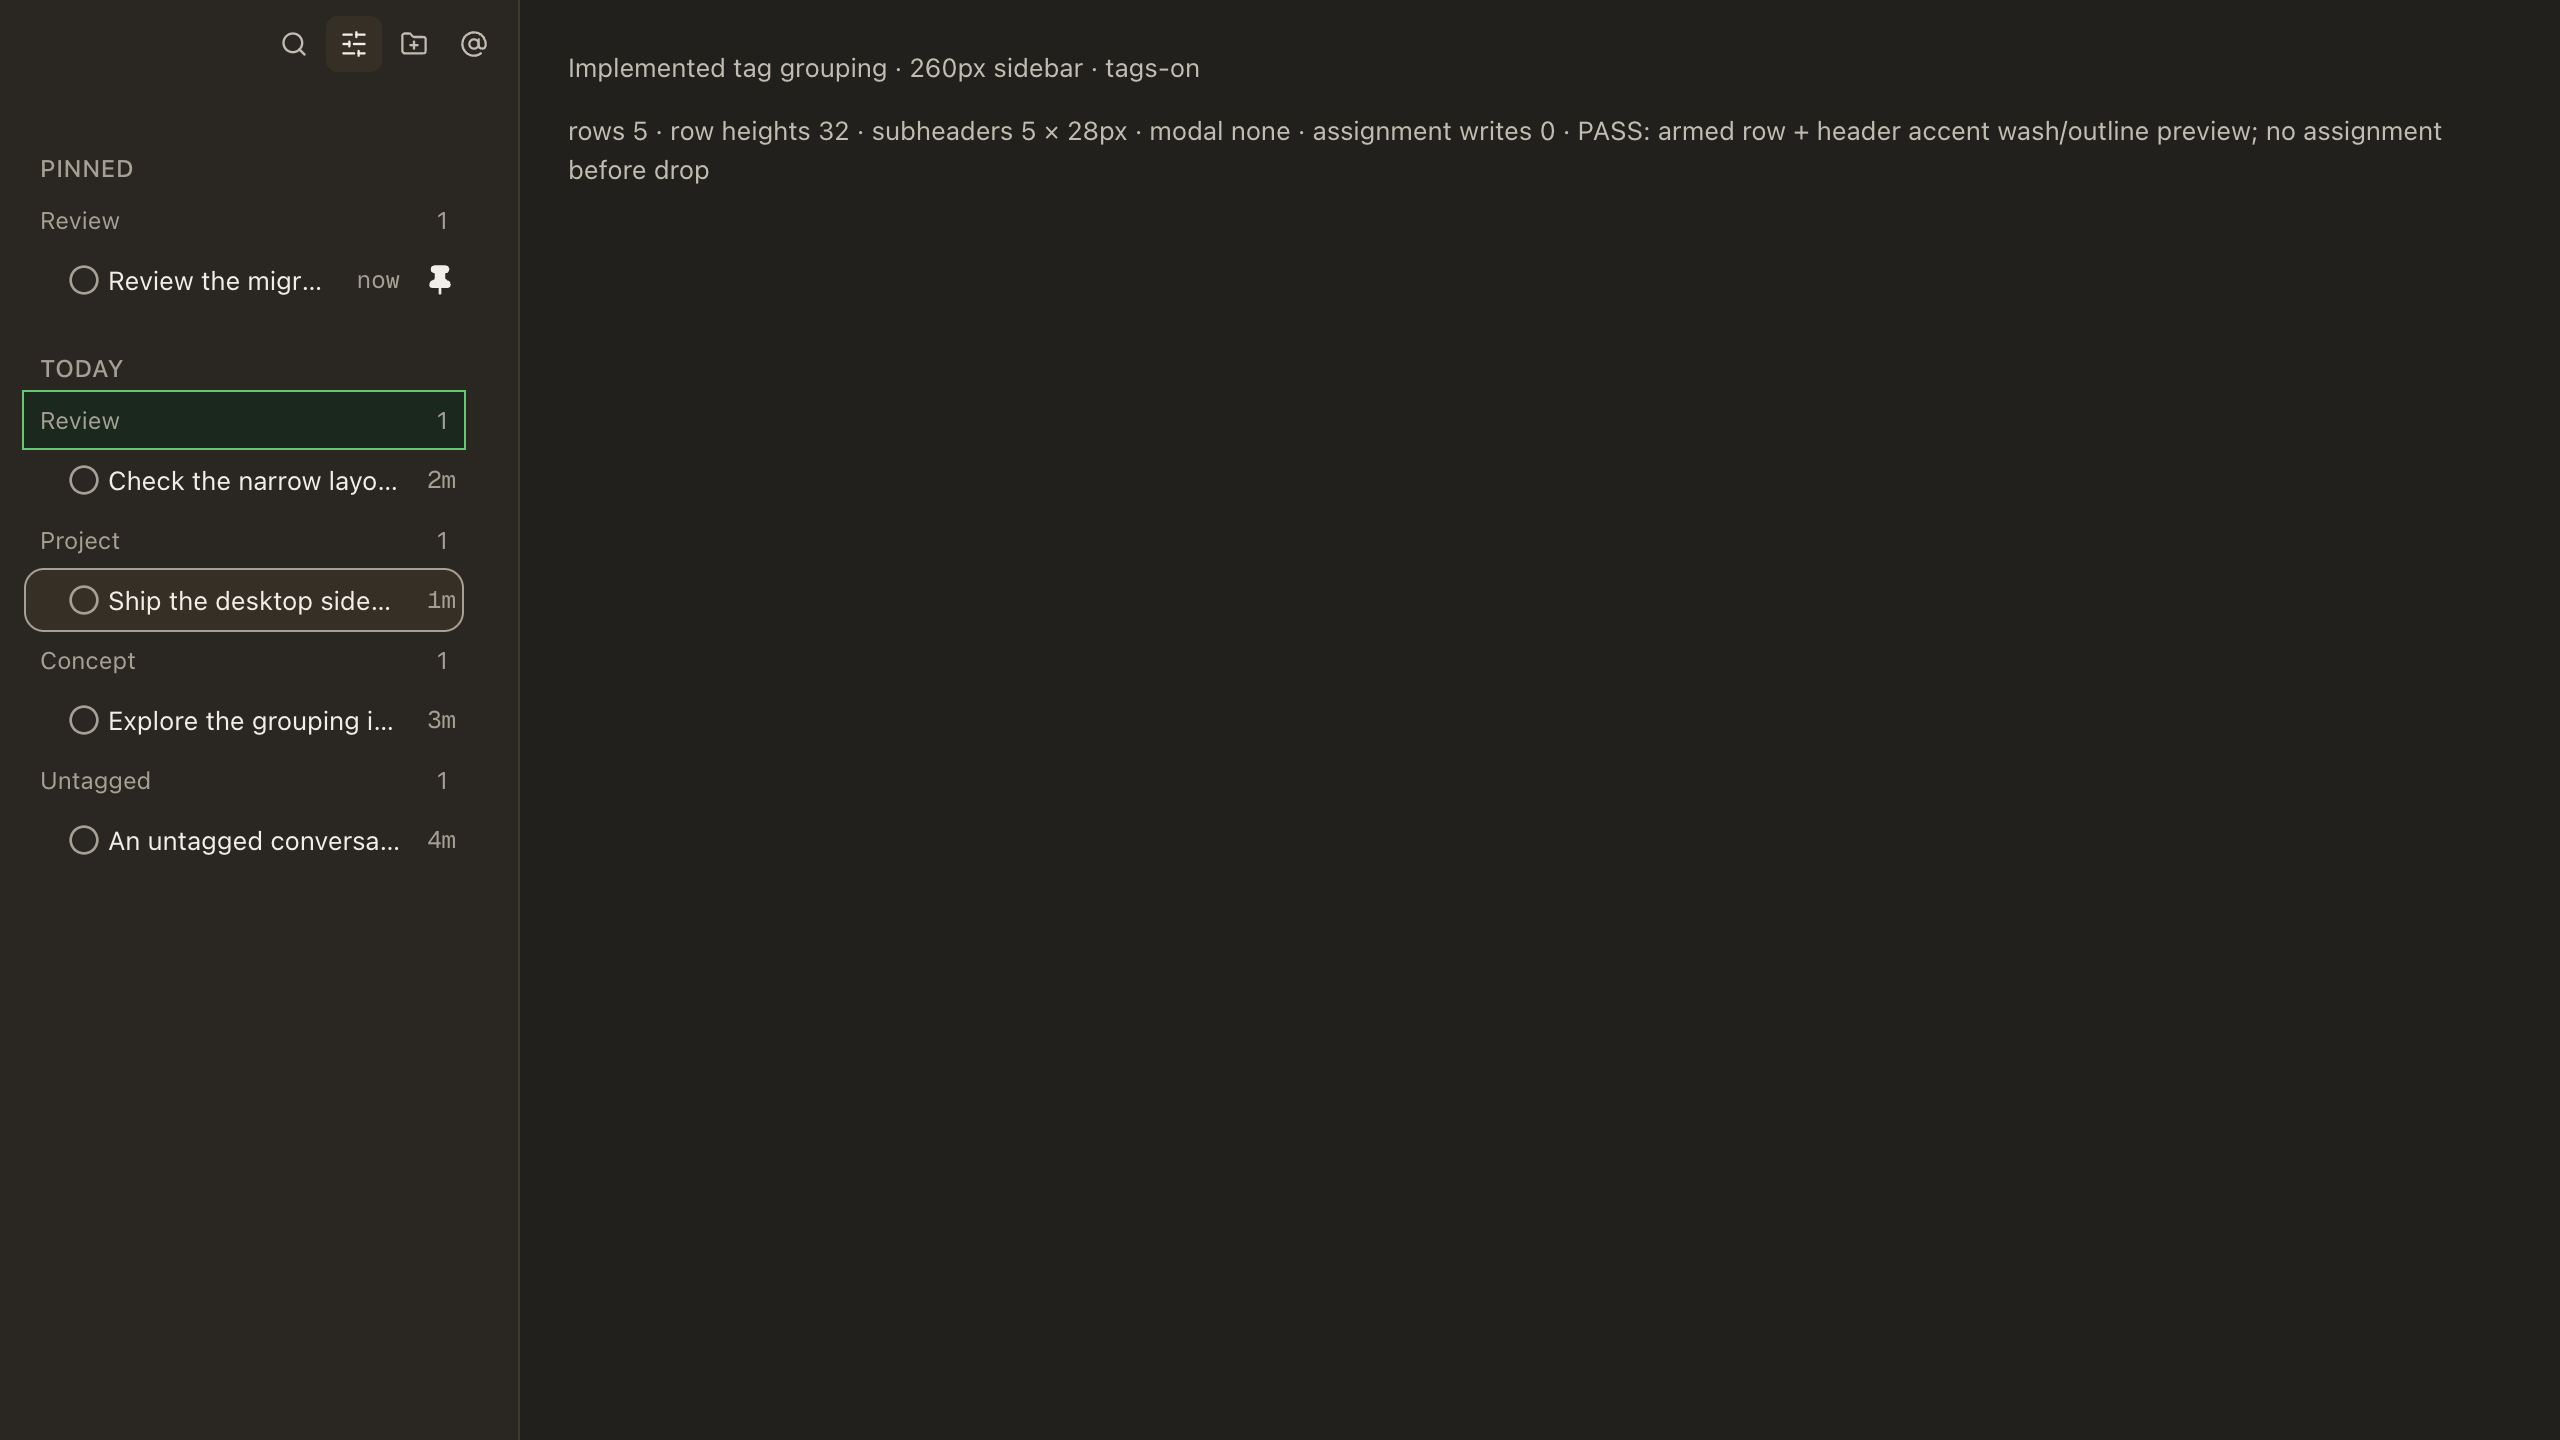
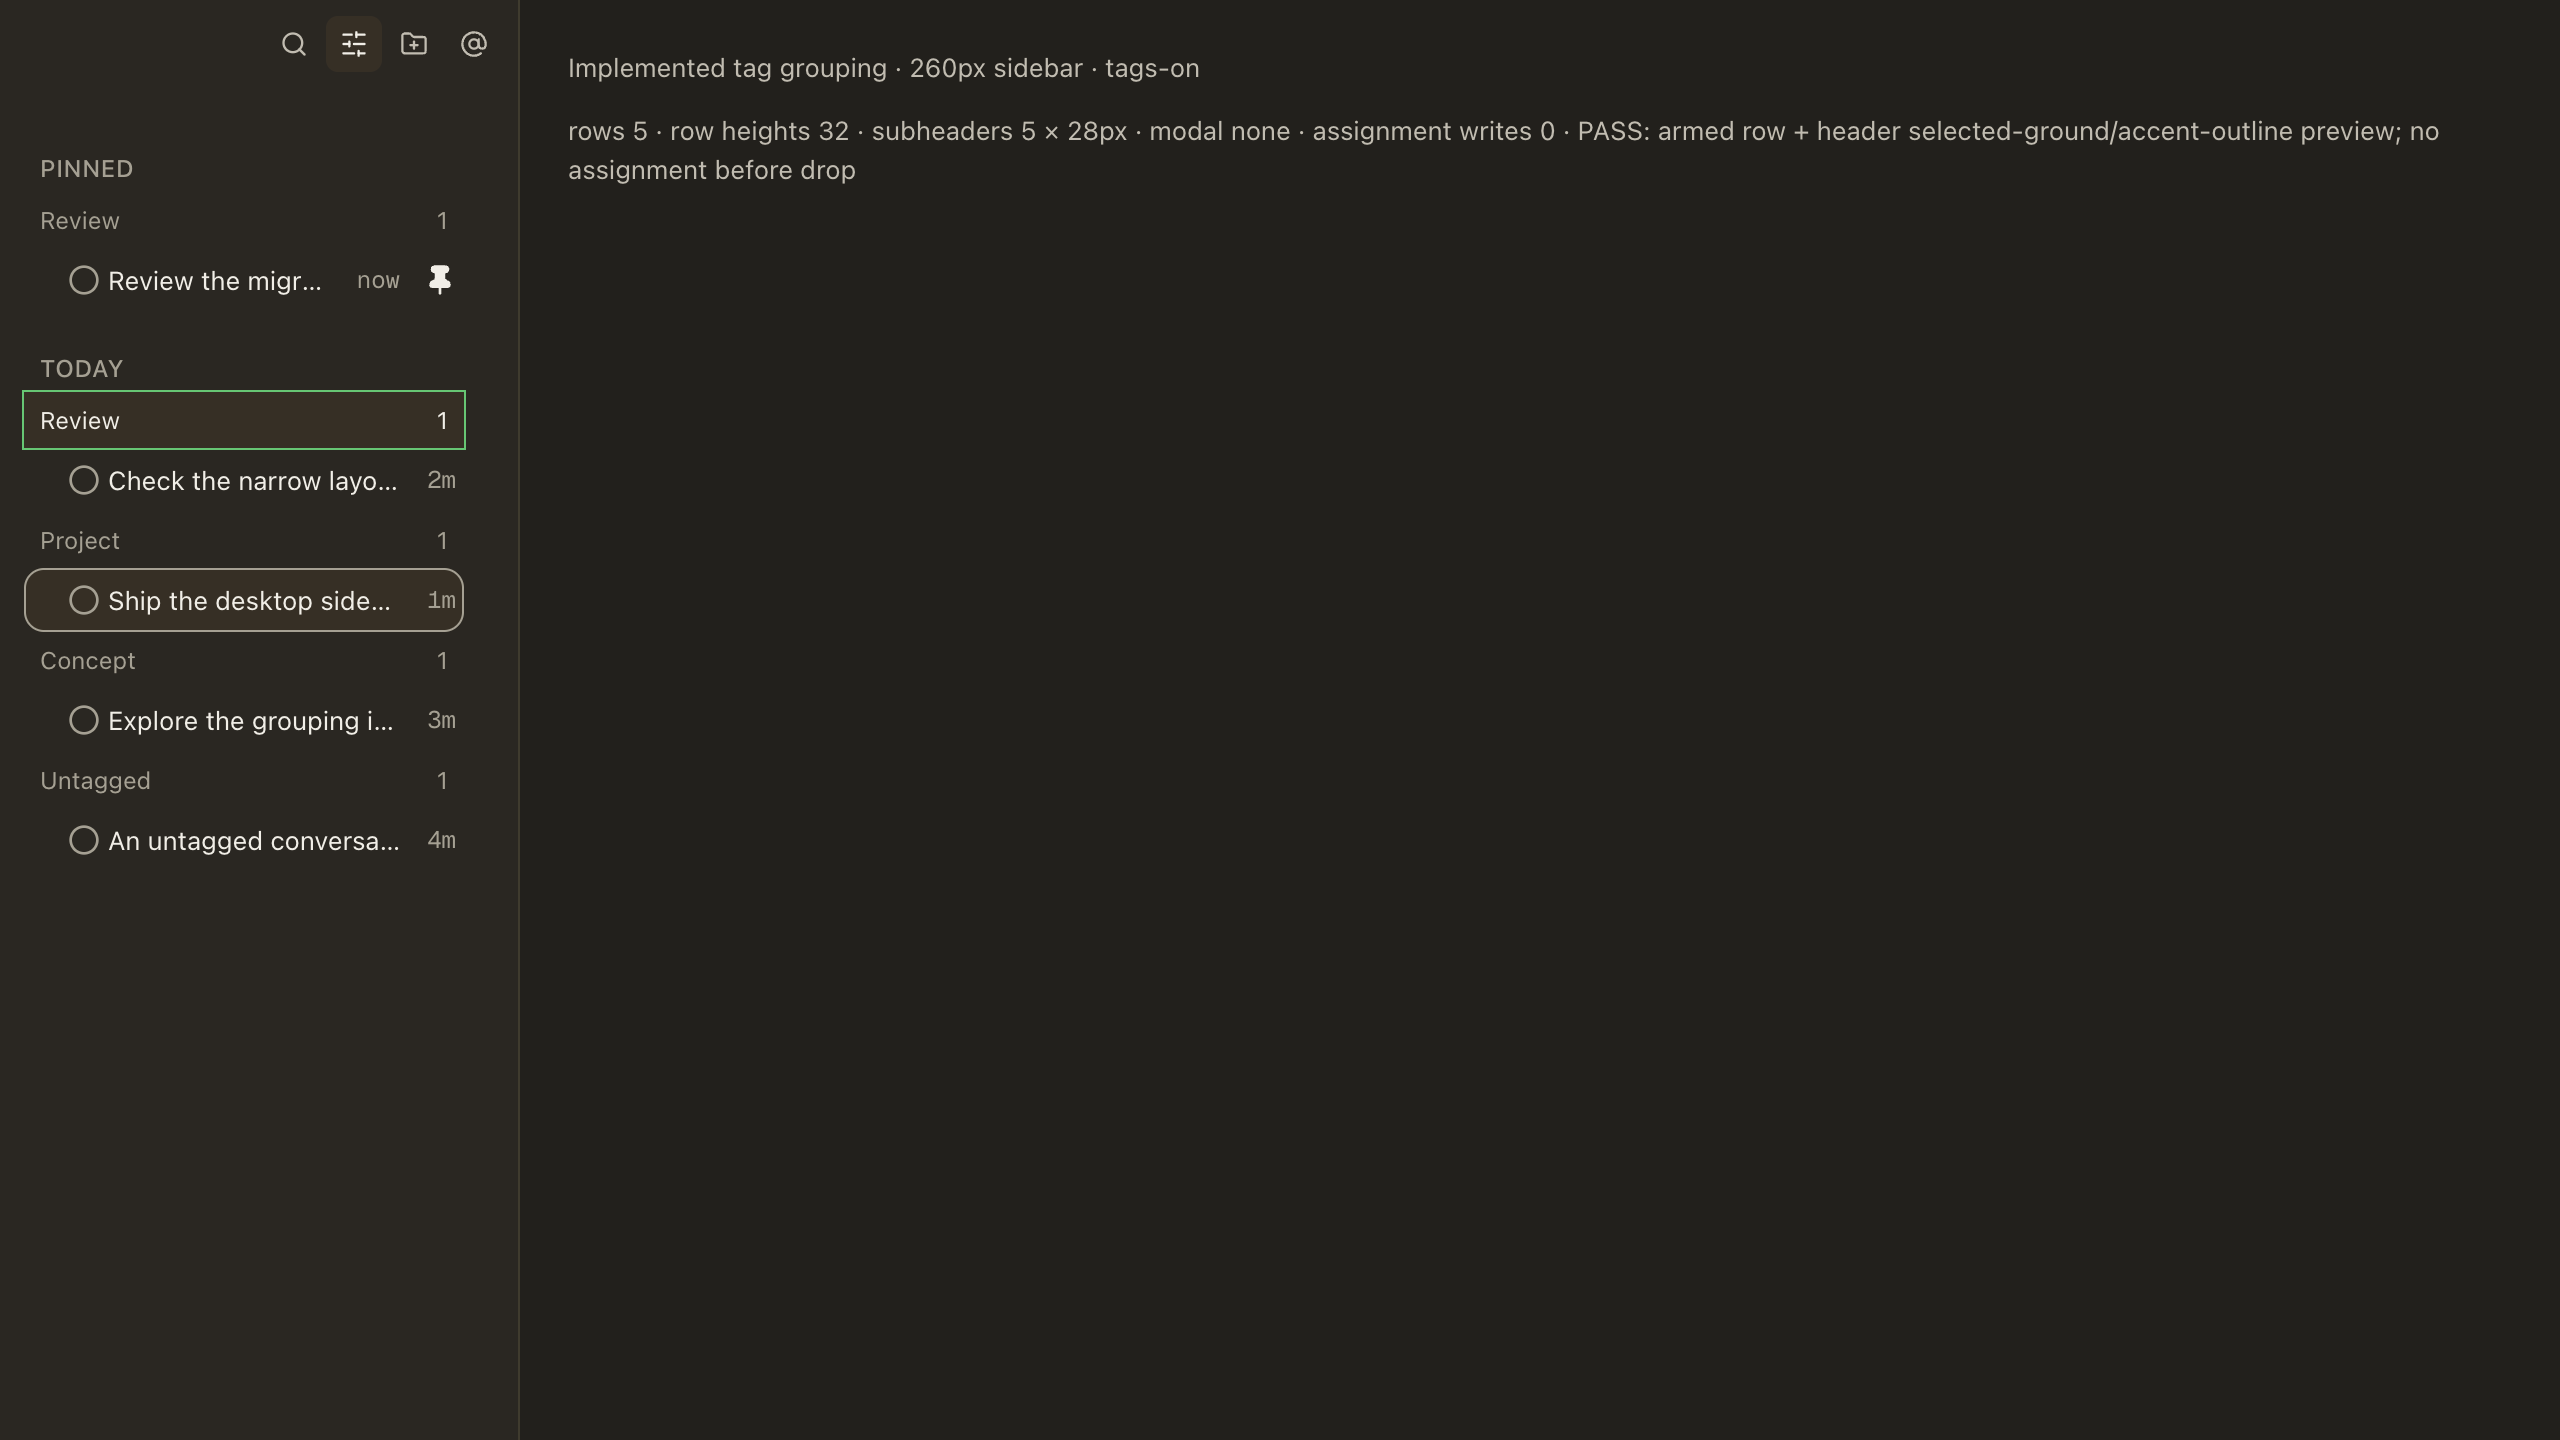
fix(chat): use compliant drop ground and isolate menu chrome

Changed region(s): [[0.0, 0.25, 0.1875, 0.3125], [0.75, 0.0625, 0.9375, 0.0938], [0.2188, 0.0938, 0.3438, 0.125]]

diff --git a/src/renderer/src/features/chat/components/chat-sidebar-tags.stories.tsx b/src/renderer/src/features/chat/components/chat-sidebar-tags.stories.tsx
@@ -930,8 +930,8 @@ const dragRoundTrip = async (crossSection: boolean) => {
 		clientX: target.left + 60,
 		clientY: target.top + 14,
 	});
-	if (crossSection) expect(header).not.toHaveClass("bg-accent-wash");
-	else await waitFor(() => expect(header).toHaveClass("bg-accent-wash"));
+	if (crossSection) expect(header).not.toHaveClass("bg-row-selected");
+	else await waitFor(() => expect(header).toHaveClass("bg-row-selected"));
 	fireEvent.pointerUp(window, {
 		...pointer,
 		clientX: target.left + 60,
@@ -1077,9 +1077,9 @@ export const DragPreview: Story = {
 			clientX: target.left + 60,
 			clientY: target.top + 14,
 		});
-		await waitFor(() => expect(header).toHaveClass("bg-accent-wash"));
+		await waitFor(() => expect(header).toHaveClass("bg-row-selected"));
 		document.body.dataset.tagsProof =
-			"PASS: armed row + header accent wash/outline preview; no assignment before drop";
+			"PASS: armed row + header selected-ground/accent-outline preview; no assignment before drop";
 	},
 };
 export const TagActionsMenu: Story = {
@@ -1276,7 +1276,7 @@ export const HeldPinnedTagDrop: Story = {
 			clientY: rect.top + 14,
 		};
 		fireEvent.pointerMove(window, over);
-		await waitFor(() => expect(target).toHaveClass("bg-accent-wash"));
+		await waitFor(() => expect(target).toHaveClass("bg-row-selected"));
 		expect(document.querySelector("[data-session-pin-indicator]")).toBeNull();
 		fireEvent.pointerUp(window, over);
 		await waitFor(() =>
@@ -1321,7 +1321,7 @@ export const PinnedHeaderPreview: Story = {
 			clientX: rect.left + 60,
 			clientY: rect.top + 14,
 		});
-		await waitFor(() => expect(target).toHaveClass("bg-accent-wash"));
+		await waitFor(() => expect(target).toHaveClass("bg-row-selected"));
 		expect(document.querySelector("[data-session-pin-indicator]")).toBeNull();
 		document.body.dataset.tagsProof =
 			"PASS: same-section Pinned header accent preview, armed row, no pinned insertion line, no write before release";
@@ -1359,7 +1359,7 @@ export const SameSectionUntaggedDrop: Story = {
 			clientY: rect.top + 14,
 		};
 		fireEvent.pointerMove(window, over);
-		await waitFor(() => expect(target).toHaveClass("bg-accent-wash"));
+		await waitFor(() => expect(target).toHaveClass("bg-row-selected"));
 		fireEvent.pointerUp(window, over);
 		await waitFor(() =>
 			expect(calls.filter((call) => call.op === "sessions.tags")).toHaveLength(
@@ -1385,4 +1385,13 @@ export const SameSectionUntaggedDrop: Story = {
 		document.body.dataset.tagsProof =
 			"PASS: eligible same-section Untagged highlighted and cleared all tags/primary in one write without changing section";
 	},
+};
+
+export const DragPreviewLight: Story = {
+	...story("tags-on", 260, "localOperatorLight"),
+	play: DragPreview.play,
+};
+export const PinnedHeaderPreviewLight: Story = {
+	...story("pinned-tags", 260, "localOperatorLight"),
+	play: PinnedHeaderPreview.play,
 };

diff --git a/src/renderer/src/features/chat/components/chat-sidebar.tsx b/src/renderer/src/features/chat/components/chat-sidebar.tsx
@@ -3,6 +3,8 @@ import {
 	builtinOfferSignature,
 } from "@features/agents/builtin-offer";
 import { InstallBuiltinAgents } from "@features/agents/components/install-builtin-agents";
+import { CHAT_ROW_MENU_SCROLL_CLASS } from "@features/chat/chat-row-menu";
+import { TAG_DROP_PREVIEW_CLASSES } from "@features/chat/chat-tag-drag";
 import {
 	groupChatsByTag,
 	tagBucketRowIds,
@@ -3298,19 +3300,9 @@ export function ChatSidebar({
 		const section = pinnedSectionRef.current;
 		const header = owner && section ? tagHeaderAt(owner, x, y, section) : null;
 		setPinHeaderTarget(header !== null);
-		pinHeaderRef.current?.classList.remove(
-			"bg-accent-wash",
-			"outline",
-			"outline-1",
-			"outline-accent",
-		);
+		pinHeaderRef.current?.classList.remove(...TAG_DROP_PREVIEW_CLASSES);
 		pinHeaderRef.current = header;
-		header?.classList.add(
-			"bg-accent-wash",
-			"outline",
-			"outline-1",
-			"outline-accent",
-		);
+		header?.classList.add(...TAG_DROP_PREVIEW_CLASSES);
 		pinDropTargetRef.current = header?.dataset.tagDropTarget ?? null;
 		const hit = document
 			.elementFromPoint(x, y)
@@ -3530,12 +3522,7 @@ export function ChatSidebar({
 		const live = pinDragRef.current;
 		pinDragRef.current = null;
 		stopPinDragAutoScroll();
-		pinHeaderRef.current?.classList.remove(
-			"bg-accent-wash",
-			"outline",
-			"outline-1",
-			"outline-accent",
-		);
+		pinHeaderRef.current?.classList.remove(...TAG_DROP_PREVIEW_CLASSES);
 		pinHeaderRef.current = null;
 		setPinDrag(null);
 		setPinHeaderTarget(false);
@@ -6141,7 +6128,7 @@ export function ChatSidebar({
 				<ContextMenuContent
 					/* At the app’s 600px floor, half the viewport is 300px: the ten-row
 					 * menu genuinely scrolls while keeping every 32px target keyboard-reachable. */
-					className="max-h-[min(var(--radix-context-menu-content-available-height),50dvh)] overflow-y-auto [&_[role=menuitem]]:min-h-8"
+					className={CHAT_ROW_MENU_SCROLL_CLASS}
 					onFocus={(event) => {
 						/*
 						 * THE KEYBOARD PATH LANDS IN THE FIRST ITEM (U-D4's minimum; the

diff --git a/src/renderer/src/features/chat/use-chat-tag-drag.ts b/src/renderer/src/features/chat/use-chat-tag-drag.ts
@@ -9,6 +9,7 @@ import {
 	TAG_DRAG_EDGE_PX,
 	TAG_DRAG_HOLD_MS,
 	TAG_DRAG_SCROLL_PX,
+	TAG_DROP_PREVIEW_CLASSES,
 	tagDragPhase,
 } from "./chat-tag-drag";
 
@@ -255,19 +256,8 @@ export function useChatTagDrag(options: Options) {
 	}, [options.enabled]);
 	useEffect(() => {
 		if (!target) return;
-		target.classList.add(
-			"bg-accent-wash",
-			"outline",
-			"outline-1",
-			"outline-accent",
-		);
-		return () =>
-			target.classList.remove(
-				"bg-accent-wash",
-				"outline",
-				"outline-1",
-				"outline-accent",
-			);
+		target.classList.add(...TAG_DROP_PREVIEW_CLASSES);
+		return () => target.classList.remove(...TAG_DROP_PREVIEW_CLASSES);
 	}, [target]);
 	return {
 		armedId,

diff --git a/src/renderer/src/features/chat/chat-row-menu.ts b/src/renderer/src/features/chat/chat-row-menu.ts
@@ -1,0 +1,6 @@
+/** A row menu is a detached overlay, not another scroller in the sidebar's
+ * ordinary-flow regions. Keep its chrome separate from the region definitions.
+ * At the supported 600px app floor this caps the ten-row menu at 300px, while
+ * preserving 32px targets and keyboard reach instead of clipping later actions. */
+export const CHAT_ROW_MENU_SCROLL_CLASS =
+	"max-h-[min(var(--radix-context-menu-content-available-height),50dvh)] overflow-y-auto [&_[role=menuitem]]:min-h-8";

diff --git a/src/renderer/src/features/chat/chat-tag-drag.ts b/src/renderer/src/features/chat/chat-tag-drag.ts
@@ -42,3 +42,14 @@ export function movedTagAssignment(
 		primary: target,
 	};
 }
+
+/** The brand wash falls below the panel field floor in several palettes. Reuse
+ * the already-contracted selected-row ground and ink for both drag entry paths;
+ * the accent outline states the transient drop intent without a faint wash. */
+export const TAG_DROP_PREVIEW_CLASSES = [
+	"bg-row-selected",
+	"text-ink!",
+	"outline",
+	"outline-1",
+	"outline-accent",
+] as const;

diff --git a/docs/evidence/sidebar-tags-v2-1/README.md b/docs/evidence/sidebar-tags-v2-1/README.md
@@ -46,17 +46,25 @@ The browser readout measured five 32px rows and five 28px occupied tag subheader
 
 ## Automated checks
 
-- `node --test scripts/sidebar-tag-drag.test.mjs scripts/chat-sidebar-tags.test.mjs scripts/chat-sidebar-row-menu.test.mjs scripts/sidebar-pin-order.test.mjs scripts/chat-sidebar-pins.test.mjs`: 80 passed, 0 failed, including the old grouped-DOM/flat-order no-op reproduction and fixed bucket-scoped result.
+- `node --test scripts/sidebar-tag-drag.test.mjs scripts/chat-sidebar-tags.test.mjs scripts/chat-sidebar-row-menu.test.mjs scripts/sidebar-pin-order.test.mjs scripts/chat-sidebar-pins.test.mjs scripts/chat-sidebar-selection.test.mjs scripts/chat-sidebar-sections.test.mjs`: 111 passed, 0 failed, including the old grouped-DOM/flat-order no-op reproduction and fixed bucket-scoped result.
 - Earlier unchanged-neighbor run also included `scripts/chat-sidebar-pins.test.mjs scripts/desktop-contract.test.mjs`: 122 passed, 0 failed before two additional focused regressions were added. Those neighboring lanes were not duplicated after changes confined to new helpers/stories.
 - `pnpm check-types:main` and `pnpm check-types:renderer`: exit 0.
 - Changed-source Biome check: exit 0 (three pre-existing regex performance warnings in desktop-contract).
 - `pnpm lint:scripts`: four changed script files lint-clean.
 - `pnpm check-i18n`: exit 0; 172 ledger entries fresh and independently audited. Fresh Russian delta receipt: `i18n/receipts/b6e2d9f04c17.json` (anthropic/claude-sonnet-5-5), zero findings. ES/FR independent receipts `c3e8a1f72b95.json` / `8d2f6a4c91e7.json` are clean-with-findings; minor million-count wording, terminology, quote/spacing consistency accepted rather than churning translations. Baseline translator metadata is retained by the assembler; receipt/ledger audit notes identify coder/openai/gpt-6.1-sol as this delta’s translator. RU exact `=1` singular was fixed after the changes-requested `5b7d1c9e2a46.json` audit, then independently re-audited; 21/101 use the plural action. The unreferenced duplicate of the original Russian receipt was removed.
 - `git diff --check`: exit 0.
-- `node scripts/evidence-fold.mjs --no-amend` mechanically re-derived outside-set frame counts for the ten retained/recaptured/new screenshots; `node --test scripts/evidence-manifest.test.mjs`: 52 passed, 0 failed, 1 skipped (citation ancestry unavailable in the shallow clone).
+- `node scripts/evidence-fold.mjs --no-amend` mechanically re-derived outside-set frame counts for the twelve retained/recaptured/new screenshots; `node --test scripts/evidence-manifest.test.mjs`: 52 passed, 0 failed, 1 skipped (citation ancestry unavailable in the shallow clone).
 
 Full desktop automated coverage is left to CI rather than duplicating the full suite locally. No version, release, mobile, core, or frozen design-plan changes are included.
 
 ## Rebase/convergence provenance
 
 `rebase-provenance.json` records the original head, current-base replay, `git range-diff` equality (excluding the mechanically rederived manifest), and byte-identical +/- line multisets. Eighteen source/script blobs were byte-identical before remediation; generated keys retained exactly the upstream-only delta. The only rebase conflict was `unjudgedFrames`, resolved by preserving upstream evidence and mechanically recounting actual files. This is compatibility evidence for the replay, not a substitute for convergence review of the remediation/new base.
+
+## CI follow-up: palette contract and detached overlay chrome
+
+The first replacement head `b54da3c98e` completed CI with ten passing checks and two failures inside Desktop Tests: the existing selection guard rejects any `bg-accent-wash` literal in the sidebar, and the existing region guard’s earlier selector-to-region slice included the new detached menu’s overflow literal. Both failures were reproduced directly before the source fix; neither guard was weakened or edited.
+
+The detached menu’s identical responsive/scroll/target classes now live in `chat-row-menu.ts`. The active header now shares `TAG_DROP_PREVIEW_CLASSES` between grip/body paths: contracted `bg-row-selected`, strong `text-ink!`, and accent outline. The plan’s faint wash wording is superseded by the repo’s palette floor, not implemented as a bypass. Eligible and pinned previews were recaptured/viewed in both localOperatorDark and localOperatorLight; `armed-preview-light.png` and `pinned-header-preview-light.png` are the two added frames.
+
+Actual harness-browser computed colors are recorded in `header-contrast.json`. WCAG relative-luminance ratios from those measurements: dark foreground/header **11.36:1**, accent outline/header **6.10:1**; light foreground/header **13.42:1**, outline/header **4.53:1**. These are two measured themes, not a claimed 59-theme sweep. Independent design was asked to re-check D1 on the corrected role/frames. The original full-suite failure is not presented as green; CI must rerun on the fast-forward source-fix head.
